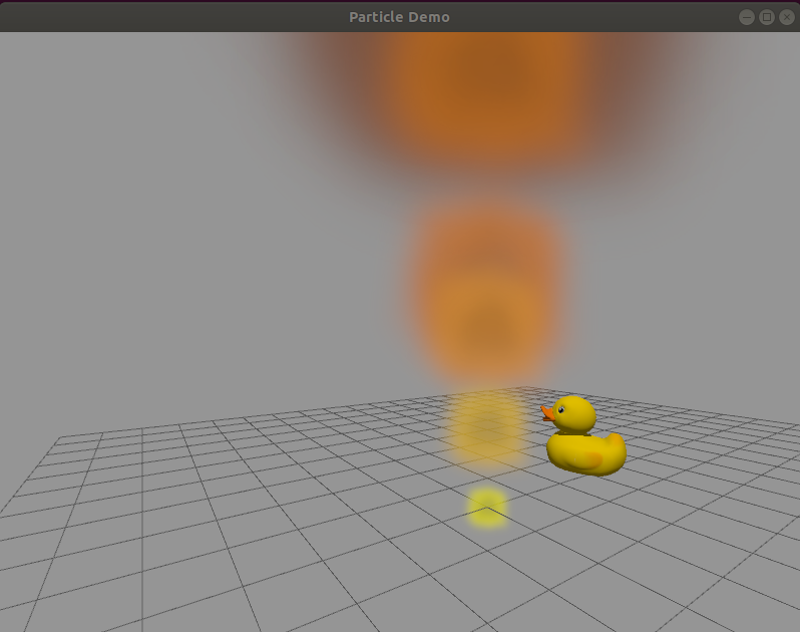
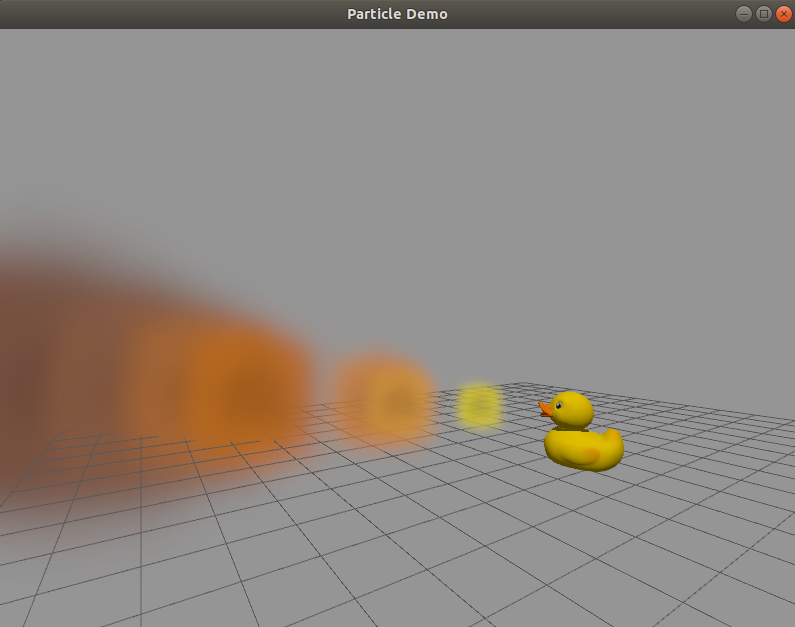
Make duck breathe fire

diff --git a/examples/particles_demo/Main.cc b/examples/particles_demo/Main.cc
@@ -107,7 +107,7 @@ void buildScene(ScenePtr _scene)
 
   //! [create particle emitter]
   ParticleEmitterPtr emitter = _scene->CreateParticleEmitter();
-  emitter->SetLocalPose({0, 0, 0, 0, -1.57, 0});
+  emitter->SetLocalPose({2, 1.10, 1.25, 1.5708, 0, 2.3});
   emitter->SetRate(10);
   emitter->SetParticleSize({1, 1, 1});
   emitter->SetLifetime(2);
